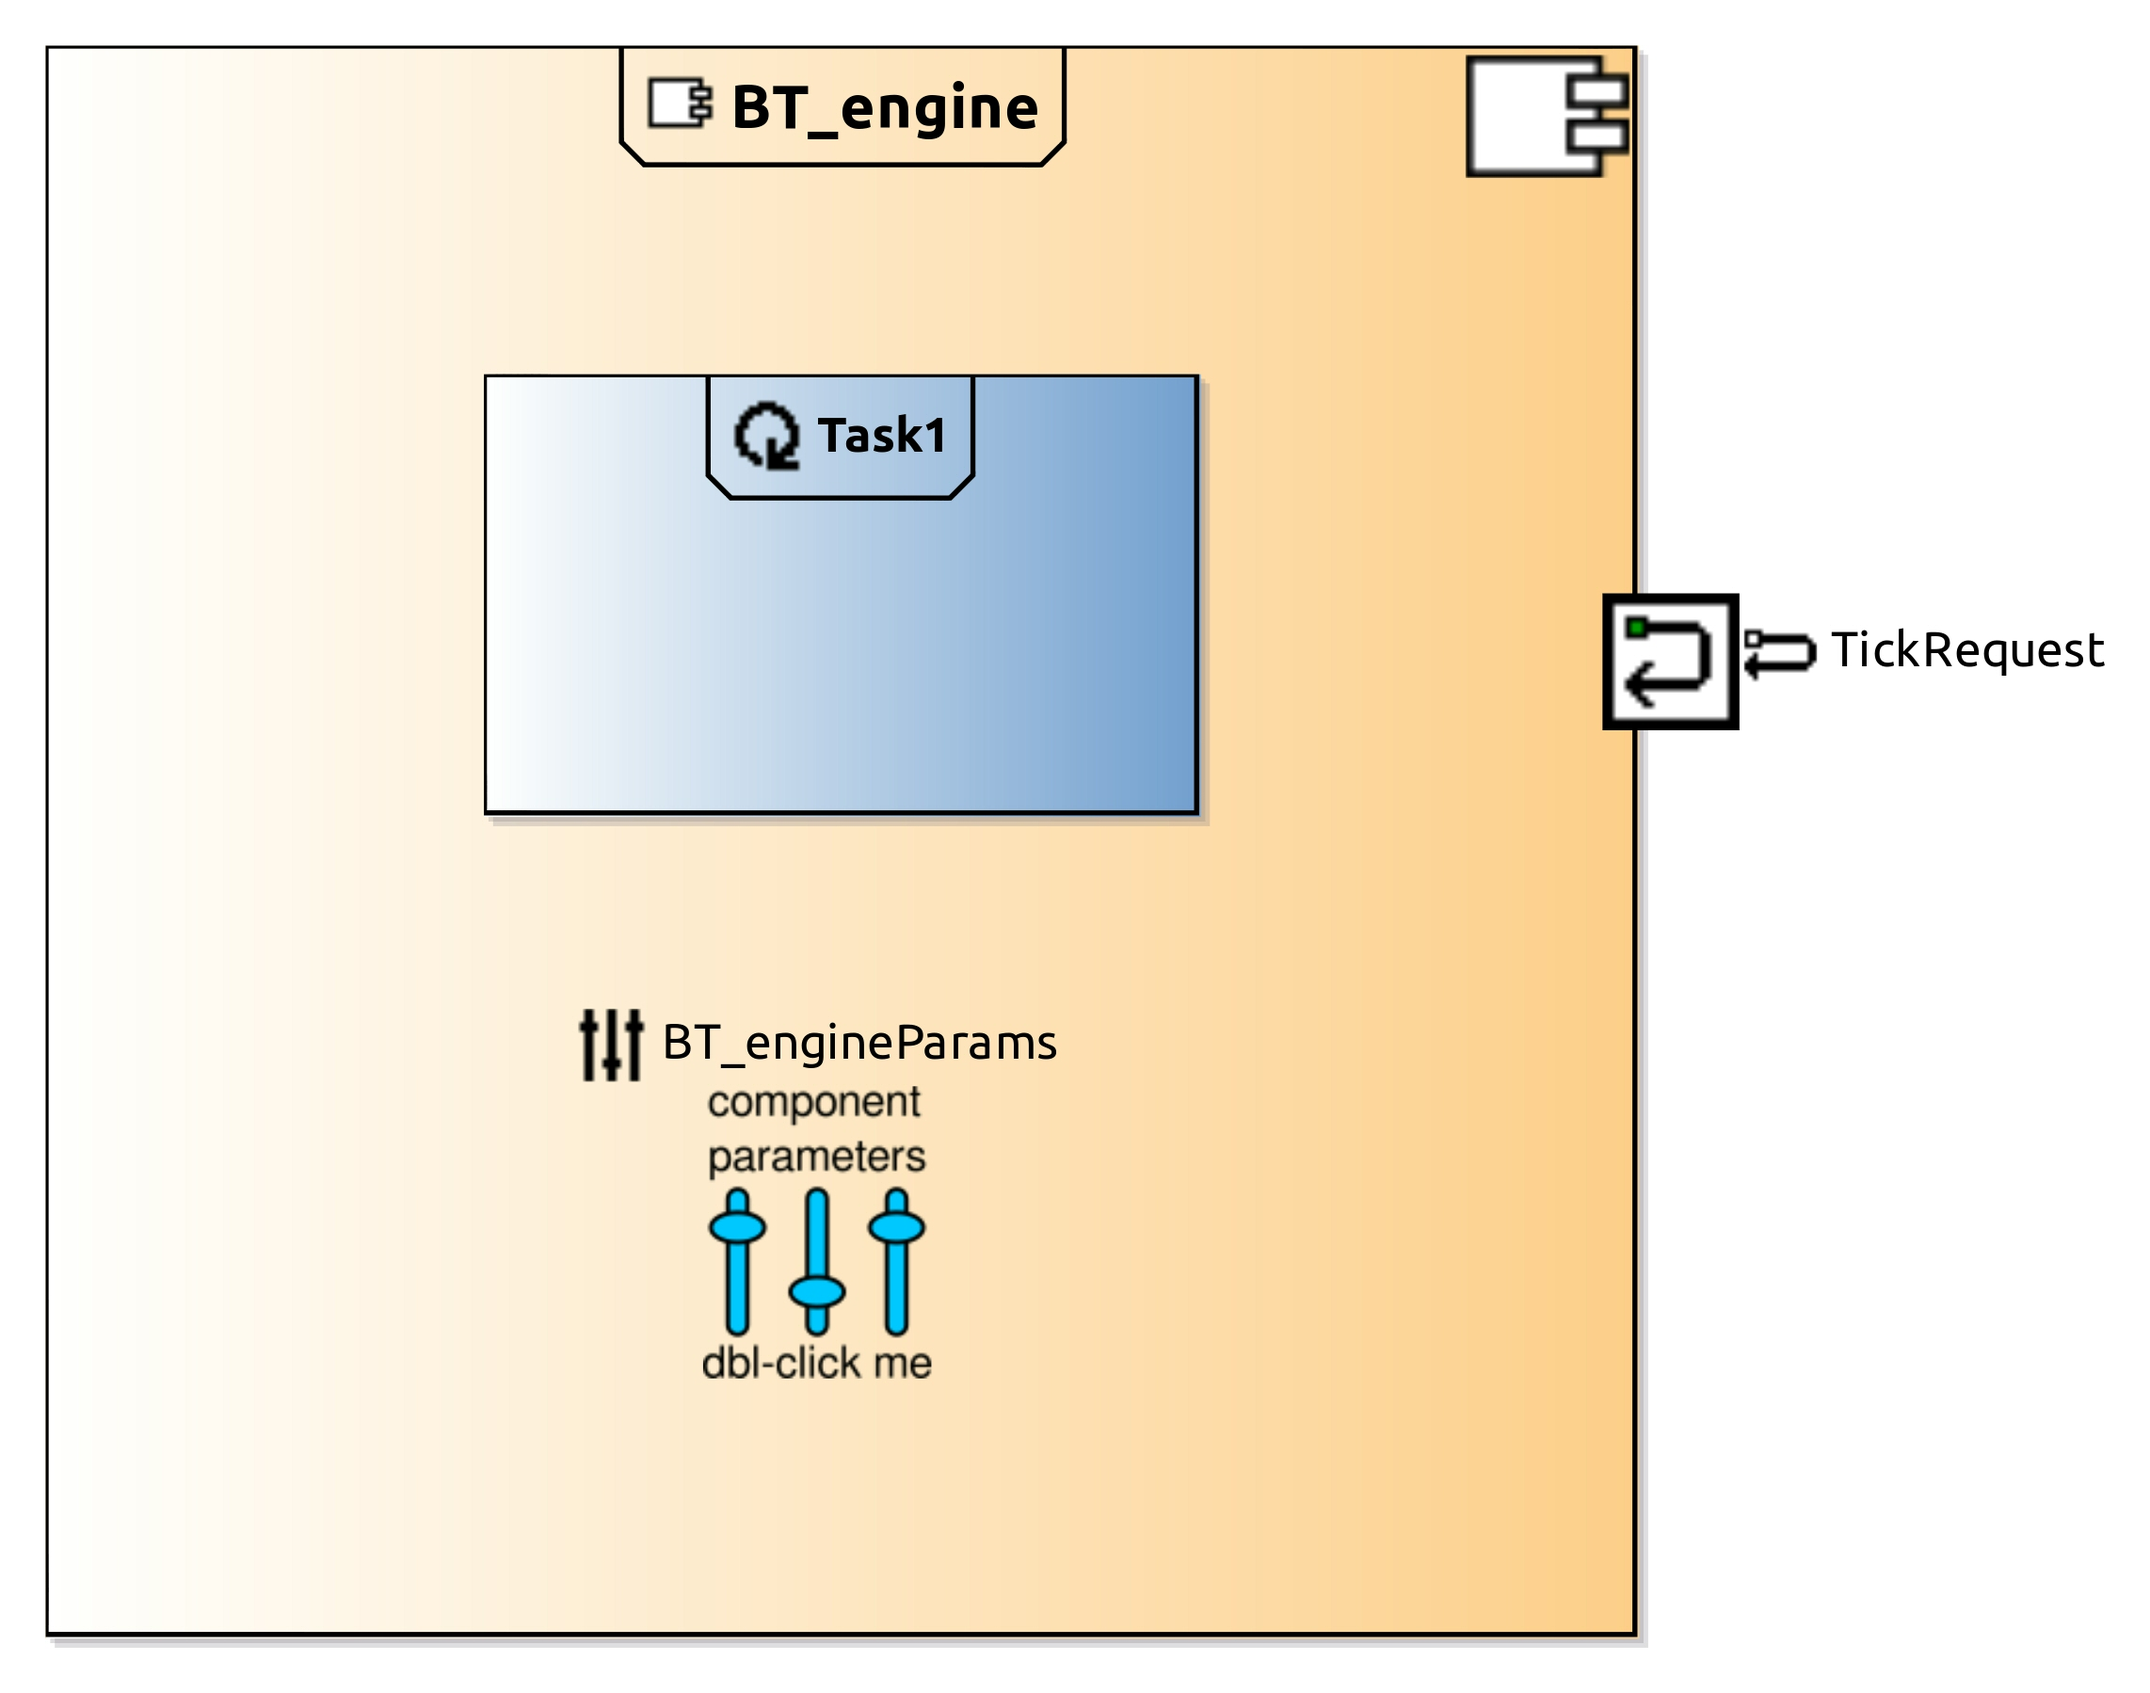
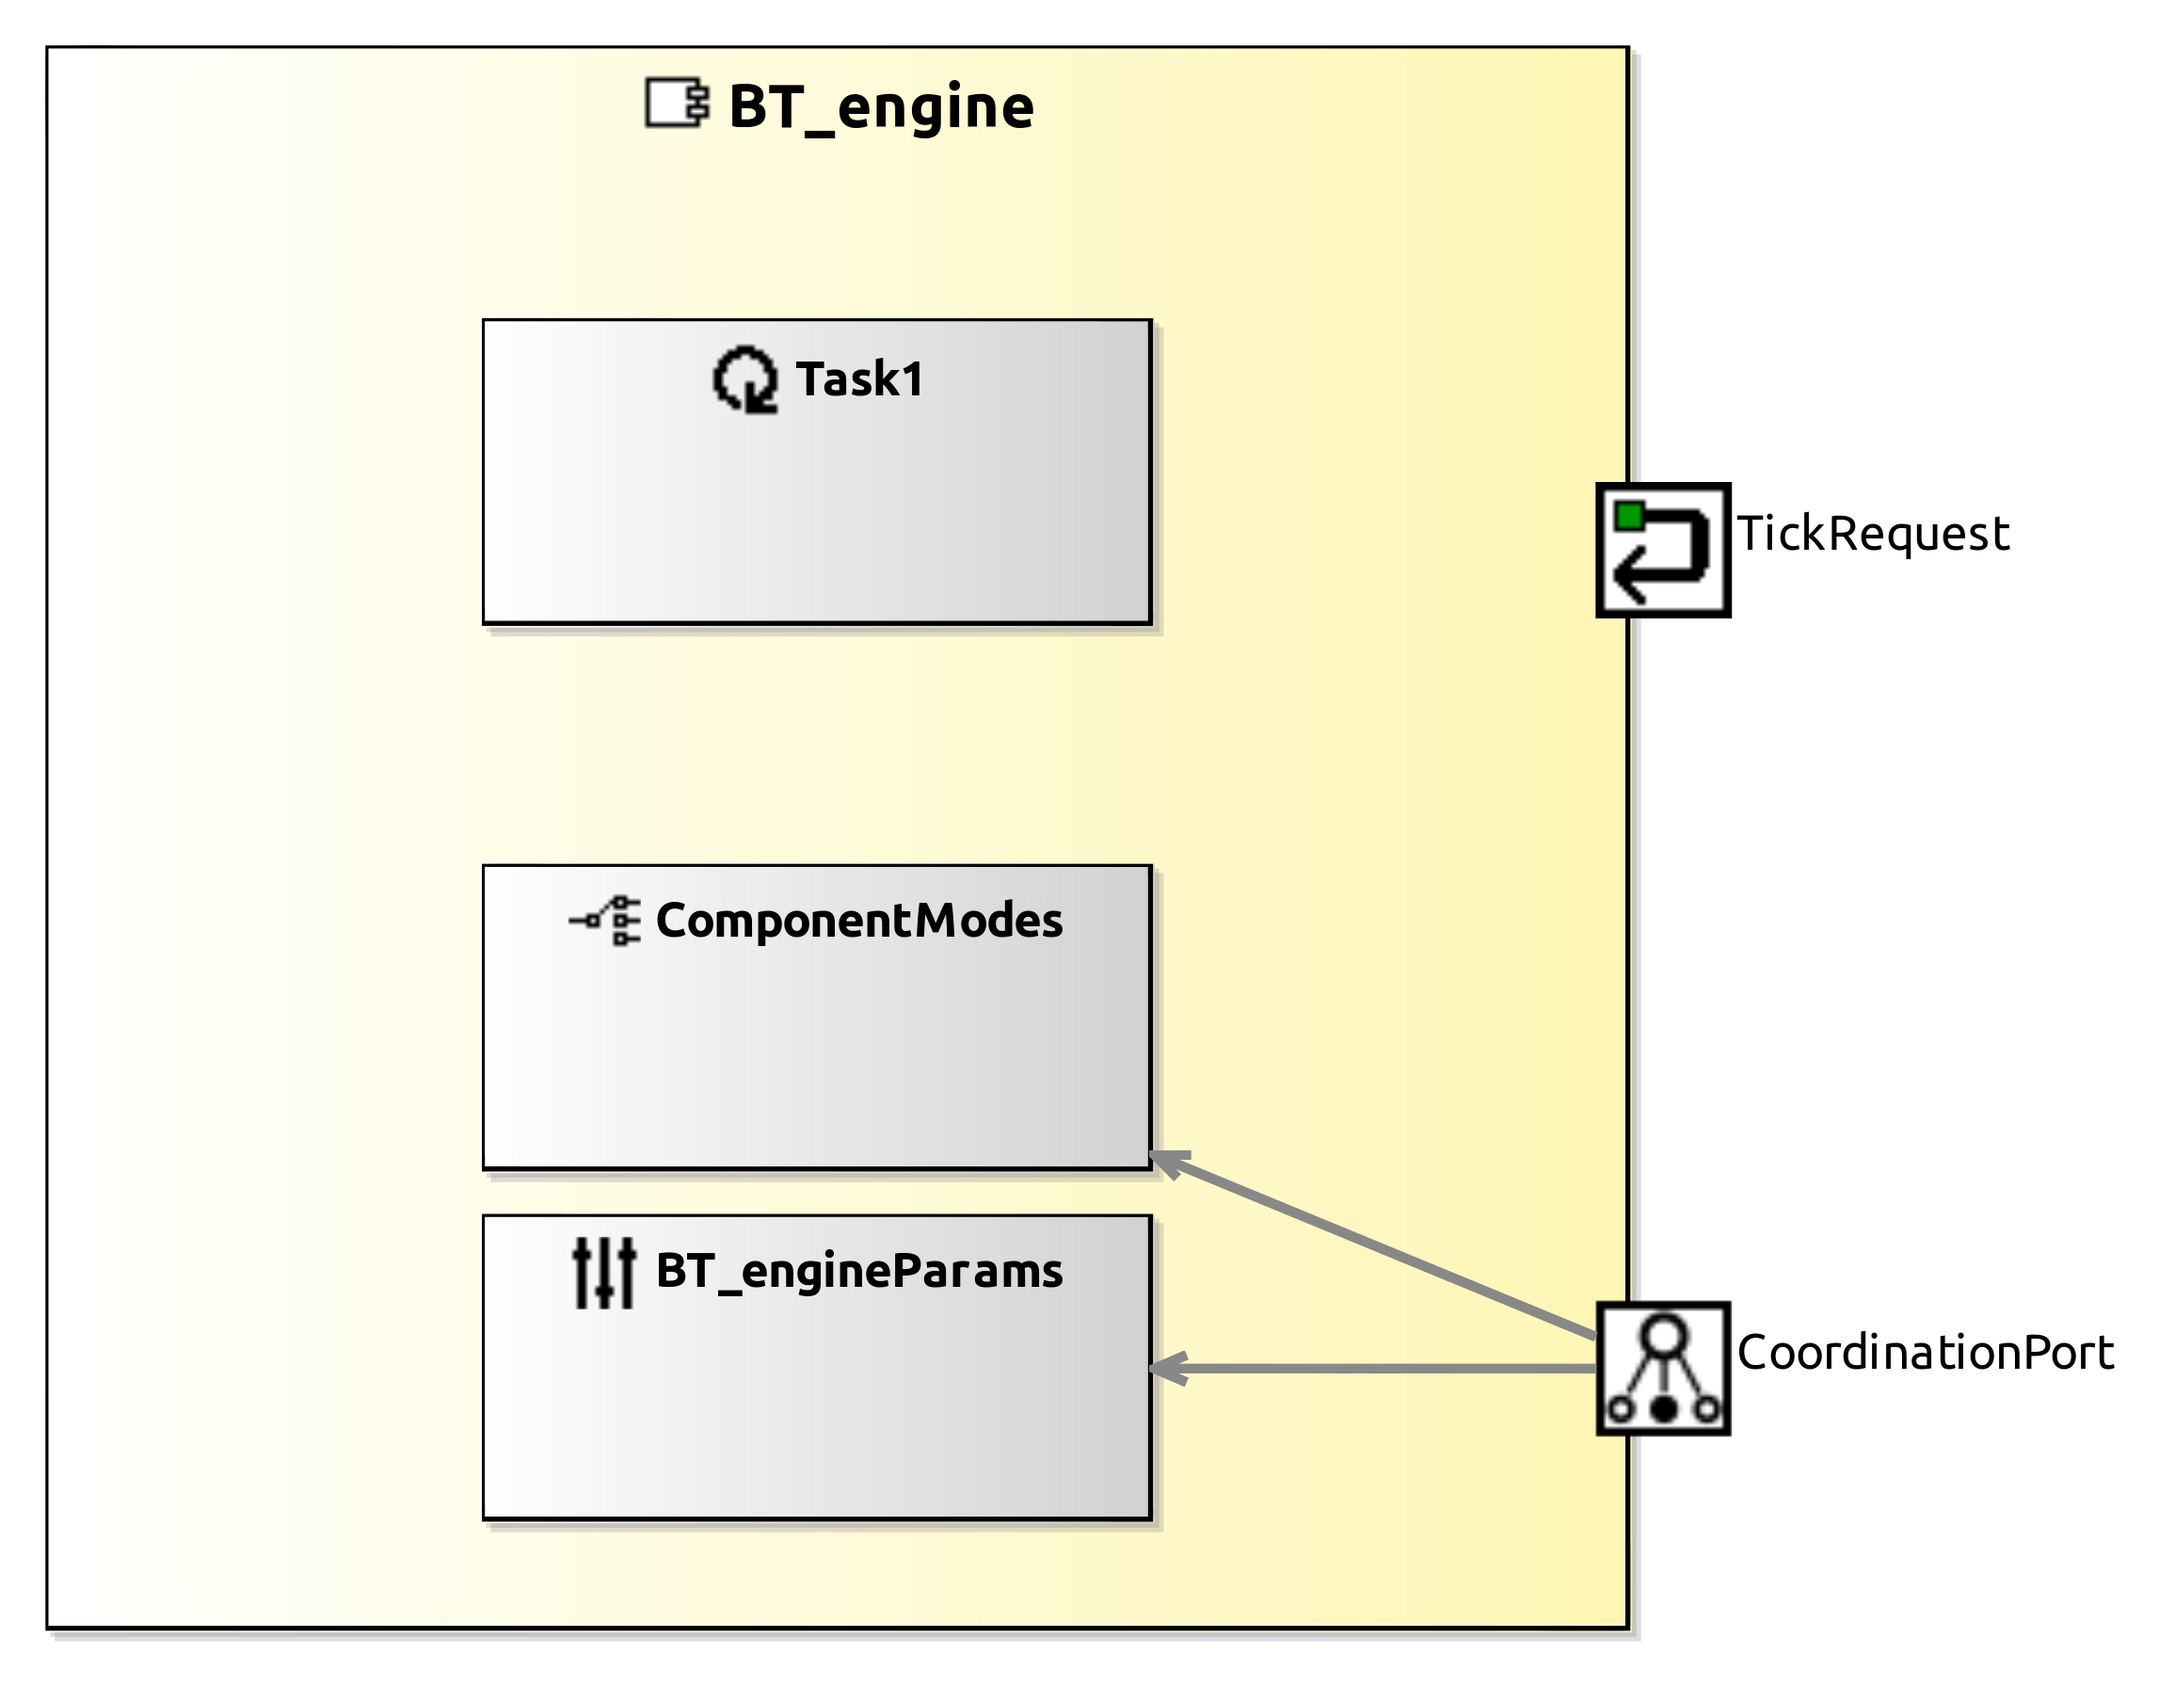
Update BT releated components

diff --git a/Bridges/BT_engine/README.md b/Bridges/BT_engine/README.md
@@ -17,3 +17,11 @@
 ## Service Ports
 
 
+## Component Parameters BT_engineParams
+
+### InternalParameter Settings
+
+| Attribute Name | Attribute Type | Description |
+|----------------|----------------|-------------|
+| bt_description | String |  |
+
